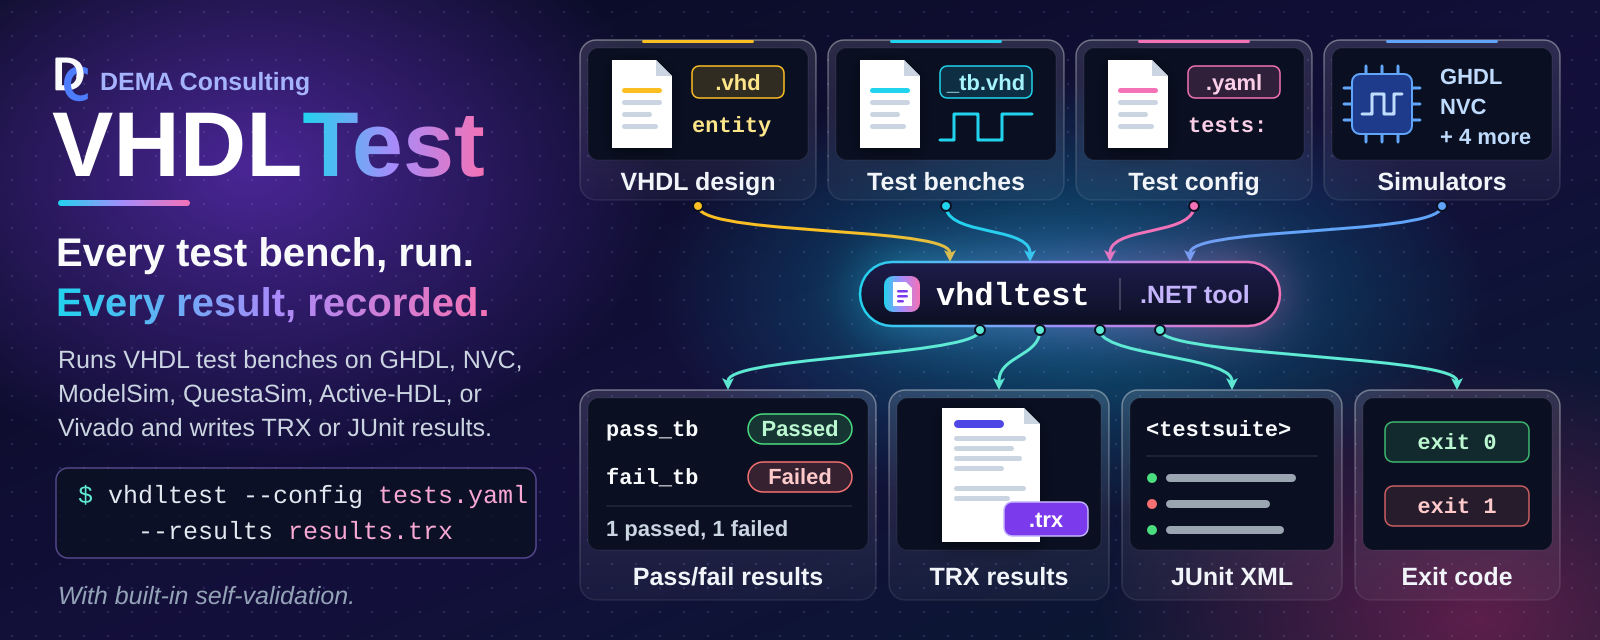
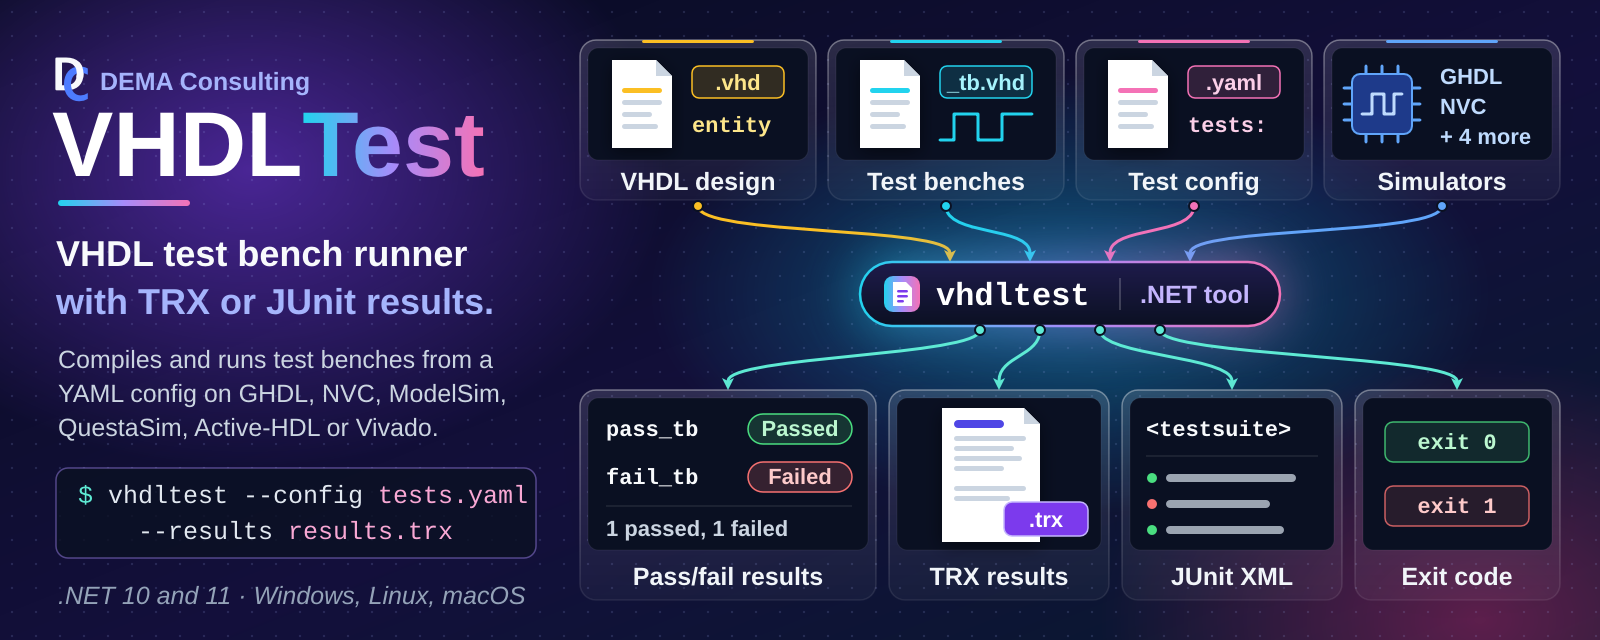
Sync agents/template and calm the README hero (#186)
* Sync agents, skills, and standards from the shared Agents repo

Brings in the orchestrator Pull Requests section and planning Feasibility and
Delivery step (#62) and the SysML2 one-package-per-file rules (#64). AGENTS.md
gains the Project Scripts section, drops fix.ps1/lint.ps1 from the protected
list, and records the legacy SysML2 package layout as a repository exception.

* Sync template: yamlfix comment setting and script CUSTOMIZATION headers

Applies template #61 (comments_require_starting_space = false, so yamlfix no
longer rewrites '#' inside block text) and #63 (CUSTOMIZATION headers replace
the older MODIFICATION POLICY text). Comment-only script changes; every
repo-specific step is unchanged. fix.ps1 makes no YAML changes.

* Calm the README hero and make it the H1

Plain tagline (VHDL test bench runner / with TRX or JUnit results.) in solid
colors, factual body and footnote; the hero is now the README H1 with the
badges under it, replacing the separate title. Right side unchanged.

---------

Changed region(s): [[0.0312, 0.5312, 0.3125, 0.6875], [0.0312, 0.375, 0.3125, 0.5], [0.0312, 0.9062, 0.3438, 0.9688]]

diff --git a/.github/standards/sysml2-modeling.md b/.github/standards/sysml2-modeling.md
@@ -31,15 +31,15 @@ docs/sysml2/
 ├── common/
 │   └── software-items.sysml           # shared SoftwareItemMetadata::SoftwareInfo metadata def
 ├── model/
-│   ├── {system-name}.sysml            # system-level part def only (no subsystems/units inline)
+│   ├── {system-name}.sysml            # package {SystemName}; system-level part def only (no subsystems/units inline)
 │   ├── {system-name}/
-│   │   ├── {subsystem-name}.sysml     # subsystem part def; nests further for sub-subsystems
+│   │   ├── {subsystem-name}.sysml     # package {SystemName}_{SubsystemName}Subsystem; nests further for sub-subsystems
 │   │   └── {subsystem-name}/
-│   │       └── {unit-name}.sysml      # one file per unit
-│   ├── ots.sysml                      # OTS dependency parts (optional; if OTS items exist)
-│   └── shared.sysml                   # Shared Package parts (optional; if Shared Packages exist)
+│   │       └── {unit-name}.sysml      # package {SystemName}_{UnitName}; one file per unit
+│   ├── ots.sysml                      # package OtsDependencies: OTS parts (optional; if OTS items exist)
+│   └── shared.sysml                   # package SharedPackages: Shared Package parts (optional; if Shared Packages exist)
 └── views/
-    └── design-views.sysml             # named view usages rendered for the design document
+    └── design-views.sysml             # package {RepoName}DesignViews; named view usages rendered for the design document
 ```
 
 `docs/sysml2/common/software-items.sysml` defines the `SoftwareItemMetadata::SoftwareInfo`
@@ -62,14 +62,42 @@ so no single alias name would generalize. Agents discover the system(s) present 
 `docs/sysml2/**/*.sysml`, not by assuming a fixed name.
 
 Always pass the full set of `.sysml` files (or an equivalent glob) to every `sysml2tools`
-invocation — the model spans multiple files and cross-references between them; files sharing
-the same `package Name { ... }` merge into one namespace automatically with no `import`
-required, as long as all files are passed together. As of `sysml2tools` 0.1.0-beta.5,
+invocation — the model spans multiple files and cross-references between them, and a
+reference only resolves when the file declaring its target is loaded (see Package Structure
+below for how files reference each other). As of `sysml2tools` 0.1.0-beta.5,
 `lint` and `render` both expand `*`/`**` glob patterns internally (recursing correctly into
 subdirectories), so pass a single **quoted** glob string (e.g. `'docs/sysml2/**/*.sysml'`)
 and let the tool resolve it — do not rely on the shell to expand it, and do not quote-strip
 the pattern before it reaches the tool. Quoting keeps the behavior identical across
 PowerShell and bash, since neither shell needs to (or reliably does) expand `**` itself.
+
+## Package Structure
+
+SysML v2 has no package merging: each file is its own root namespace, and two root packages
+with the same name are duplicate members of the global namespace (the OMG Pilot
+Implementation reports "Duplicate of other owned member name" for each, and references across
+the halves do not resolve). A model that only loads because a tool is lenient is not portable,
+so:
+
+- Each `.sysml` file declares **exactly one uniquely named package**, and a package is never
+  declared (or "reopened") in more than one file.
+- Name each package from its place in the hierarchy, joined with an underscore:
+  `{SystemName}` for the system file, `{SystemName}_{SubsystemName}Subsystem` for a subsystem
+  (including a nested sub-subsystem, which is not prefixed with its parent subsystem), and
+  `{SystemName}_{UnitName}` for a unit. The system prefix keeps names unique across systems.
+  The shared files use `OtsDependencies` and `SharedPackages`, and the single views file uses
+  one repository-level package, `{RepoName}DesignViews` (not one per system).
+- Package names must be unique **repository-wide**. The short forms above are the default;
+  when one would collide (two `Storage` subsystems in different branches, or two units named
+  `Cache` in different subsystems), qualify it with the owning subsystem path, for example
+  `{SystemName}_{SubsystemName}_{UnitName}` (`Acme_Ingest_Cache` and `Acme_Query_Cache`).
+- Reference other files with an explicit `private import {PackageName}::*;` (a system or
+  subsystem file imports the package of each direct member so its `part` usages resolve; every
+  file that applies `SoftwareInfo` imports `SoftwareItemMetadata::*`).
+- Where an import would form a cycle (for example a unit that depends on a package that
+  already imports it), or for a one-off reference into another system, use the qualified name
+  instead, e.g. `dependency {UnitName} to {SystemName}_{OtherUnit}::{OtherUnit};`.
+  Import cycles raise a lint warning; qualified references do not.
 
 ## Model Content
 
@@ -174,11 +202,13 @@ Views control what gets rendered into diagrams for the design document. Use name
 **usages** (not `view def` **definitions**) — `expose` is only valid inside a usage:
 
 ```sysml
-package {SystemName} {
+package {RepoName}DesignViews {
     private import StandardViewDefinitions::*;
+    private import {SystemName}::*;
+    private import {SystemName}_{SubsystemName}Subsystem::*;
 
     view SoftwareStructureView : InterconnectionView {
-        expose {SystemName}::**;     // all members, recursively: system + subsystems + units
+        expose {SystemName}::{SystemName}System::**;  // system part def, recursively: subsystems + units
     }
 
     view {SystemName}View {
@@ -186,10 +216,12 @@ package {SystemName} {
     }
 
     view {SubsystemName}View {
-        expose {SubsystemName};      // one subsystem def only
+        expose {SubsystemName}Subsystem;      // one subsystem def only
     }
 }
 ```
+
+Views import (or qualify) every package whose members they expose, like any other file.
 
 Type `SoftwareStructureView` by a standard view definition from the SysML v2 Views library
 (`GeneralView`, `InterconnectionView`, ...; requires `sysml2tools` 0.3.0-beta.3+). The view
@@ -223,25 +255,27 @@ There is no dedicated `DependencyView`/`{SubsystemName}DependencyView` diagram c
 above), not rendered.
 
 When a repository has multiple systems, type `SoftwareStructureView` by `GeneralView`,
-expose each system package's members, and filter out documentation so the overview stays
-readable — the general view draws one package frame per system, while an interconnection
-view places all systems in a single row:
+expose each system's part def (and each subsystem's, by qualified name), and filter out
+documentation so the overview stays readable — the general view draws one package frame per
+system, while an interconnection view places all systems in a single row:
 
 ```sysml
 package {RepoName}DesignViews {
     private import StandardViewDefinitions::*;
 
     view SoftwareStructureView : GeneralView {
-        expose {SystemNameA}::**;
-        expose {SystemNameB}::**;
-        filter not @SysML::Documentation;
+        expose {SystemNameA}::{SystemNameA}System;
+        expose {SystemNameA}_{SubsystemName}Subsystem::{SubsystemName}Subsystem;
+        expose {SystemNameB}::{SystemNameB}System;
+        filter not (@SysML::Documentation);
     }
 }
 ```
 
 Documentation (`doc`) is exposed with its owner and drawn as a `doc` compartment unless a
-view filters it out; use `filter not @SysML::Documentation;` wherever doc text would clutter
-a diagram.
+view filters it out; use `filter not (@SysML::Documentation);` wherever doc text would clutter
+a diagram. The parentheses are required: the SysML v2 grammar does not accept the unparenthesized
+`filter not @SysML::Documentation;`.
 
 ## Diagram Embedding
 
@@ -313,6 +347,9 @@ sync.
   `sourceFiles`; the purpose statement appears only in the `doc` comment, never in `SoftwareInfo`
 - [ ] `docs/sysml2/views/design-views.sysml` uses `view Name { expose ...; }` usages, not
   `view def` definitions
+- [ ] Each `.sysml` file declares exactly one uniquely named package (never the same package
+  in two files), named per Package Structure, and references other files through
+  `private import` or qualified names (qualified where an import would form a cycle)
 - [ ] View names follow the `SoftwareStructureView` / `{SystemName}View` /
   `{SubsystemName}View` convention (no dedicated `DependencyView`)
 - [ ] Each Unit's real collaborators are captured as `dependency A to B;` statements, and each

diff --git a/.github/skills/sysml2tools-query/SKILL.md b/.github/skills/sysml2tools-query/SKILL.md
@@ -21,11 +21,15 @@ dotnet tool restore
 ## Model files
 
 - `docs/sysml2/model/{system-name}.sysml` — system-level `part def` only (no subsystems/units
-  inline). A repository may contain more than one system.
+  inline), in package `{SystemName}`. A repository may contain more than one system.
 - `docs/sysml2/model/{system-name}/{subsystem-name}.sysml` and
   `docs/sysml2/model/{system-name}/{subsystem-name}/{unit-name}.sysml` — one file per
   Subsystem/Unit, nested to mirror the same folder depth as that item's companion
-  `docs/design/`, `docs/reqstream/`, and `docs/verification/` files.
+  `docs/design/`, `docs/reqstream/`, and `docs/verification/` files. Each declares its own
+  uniquely named package; by default `{SystemName}_{SubsystemName}Subsystem` or
+  `{SystemName}_{UnitName}`, qualified with the subsystem path
+  (`{SystemName}_{SubsystemName}_{UnitName}`) when the short name would collide. An element's
+  qualified name is e.g. `{SystemName}_{UnitName}::{UnitName}`.
 - `docs/sysml2/model/ots.sysml` — off-the-shelf (OTS) dependency parts (present when OTS items
   exist).
 - `docs/sysml2/model/shared.sysml` — Shared Package parts (present when Shared Package items
@@ -35,9 +39,10 @@ dotnet tool restore
   useful to see how diagrams are scoped.
 
 Always pass all `.sysml` files (or a glob covering them) to every `sysml2tools`
-invocation — the model spans multiple files and cross-references between them; files that
-reopen the same `package Name { ... }` from different files merge into one namespace
-automatically, no `import` required. As of `sysml2tools` 0.1.0-beta.5, every subcommand
+invocation — the model spans multiple files and cross-references between them (each file
+declares one uniquely named package and references others through `import` or qualified
+names; same-named packages in different files are not merged), so every file a reference
+points at must be loaded. As of `sysml2tools` 0.1.0-beta.5, every subcommand
 (`lint`, `render`, `query`) expands `*`/`**` glob patterns internally and recurses
 correctly — pass a single **quoted** glob string and let the tool resolve it, rather than
 relying on the shell (quoting works identically in both PowerShell and bash):
@@ -57,7 +62,7 @@ summary line, so one query gets you every artifact location for that item withou
 the source tree:
 
 ```pwsh
-dotnet sysml2tools query describe -e {SystemName}::{UnitName} 'docs/sysml2/**/*.sysml'
+dotnet sysml2tools query describe -e {SystemName}_{UnitName}::{UnitName} 'docs/sysml2/**/*.sysml'
 ```
 
 ```text

diff --git a/AGENTS.md b/AGENTS.md
@@ -160,10 +160,30 @@ requires it and the modification preserves the documented design intent:
 
 - `.reviewmark.yaml`, `.textlint.yaml`, `.editorconfig`
 - `.lintmark.yaml`, `.yamllint.yaml`
-- `requirements.yaml`, `fix.ps1`, `lint.ps1`
+- `requirements.yaml`
+
+# Project Scripts
+
+`build.ps1`, `lint.ps1`, and `fix.ps1` belong to the project: extend them as it grows. Add project-specific
+steps, update tool versions, and add optional parameters that focus a run (for example one library in a
+multi-library repository, or headless tests without GUI automation). Two rules keep them trustworthy:
+
+- Run with no arguments, each script still does its full job (CI and the agents rely on that); slow or
+  environment-dependent test tiers may be opt-in switches of `build.ps1`.
+- Never remove or weaken a check to make lint or tests pass.
 
 # Continuous Compliance Overview
 
 This repository follows the [Continuous Compliance](https://github.com/demaconsulting/ContinuousCompliance)
 approach. Tools: **ReqStream** (requirements traceability), **ReviewMark** (file review enforcement),
 **BuildMark** (tool versions), **VersionMark** (version tracking).
+
+# Repository-Specific Standards Exceptions
+
+## SysML2 package structure (legacy layout, migration pending)
+
+The model under `docs/sysml2/` predates the `sysml2-modeling.md` Package Structure rules: the `VHDLTest`
+package is reopened across 32 files (31 model files plus `views/design-views.sysml`, which uses `VHDLTest`
+rather than `VHDLTestDesignViews`). Those rules and the `sysml2tools-query` qualified-name examples apply once
+the model is migrated in a dedicated PR. Until then, agents use the existing package names (`VHDLTest`,
+`OtsDependencies`, `SoftwareItemMetadata`) and must not partially restructure the model.

diff --git a/.github/agents/orchestrator.agent.md b/.github/agents/orchestrator.agent.md
@@ -48,3 +48,16 @@ briefly, what you loaded.
   let the user answer in their own words. Do not batch decisions into structured question forms (such as an
   `ask_user` tool); they strip away the context the user needs to decide and turn the session into a
   questionnaire.
+
+# Pull Requests (MANDATORY)
+
+Aim for pull requests that each merge one complete, useful change that could be cherry-picked on its own.
+
+- Before starting work that could span more than one pull request, propose the grouping and let the user
+  decide. The user may split it, or combine several small requests into one pull request.
+- When splitting, split by behavior, not by layer or file type: each part carries its own code, tests,
+  requirements, and docs, builds and passes alone, and leaves no stubs or dead code for a later part.
+- Deliver parts in order: start the next part from main only after the previous one merges.
+- Review fixes, lint fixes, and follow-ups go into the open pull request they belong to, not a new one.
+- Sub-agents work on the agreed branch and do not open pull requests; you decide when it is complete.
+- Keep mechanical churn (formatting, renames, generated files) in its own commit so reviewers can skip it.

diff --git a/README.md b/README.md
@@ -1,7 +1,4 @@
-# VHDLTest
-
-<!-- IMPORTANT: All links in this file must be absolute URLs.
-     This file is distributed in packages and relative links will not resolve. -->
+# ![VHDLTest: VHDL test bench runner with TRX or JUnit results][hero]
 
 [![CI][github-build-badge]](https://github.com/demaconsulting/VHDLTest/actions/workflows/build_on_push.yaml)
 [![Quality Gate Status][sonarcloud-quality-badge]][sonarcloud-quality-url]
@@ -12,11 +9,8 @@
 ![GitHub contributors][github-contributors-badge]
 ![GitHub][github-license-badge]
 
-![VHDLTest banner: the VHDLTest name with the tagline 'Every test bench, run. Every result, recorded.' and the
-command 'vhdltest --config tests.yaml --results results.trx'. VHDL design files, test benches, the YAML test
-configuration, and an installed simulator (GHDL, NVC, and four more) flow on curved arrows into the vhdltest .NET
-tool, and arrows lead out to the pass/fail result of each test bench, a TRX test results file, a JUnit XML test
-results file, and a pass/fail exit code (exit 0 or exit 1)][hero]
+<!-- IMPORTANT: All links in this file must be absolute URLs.
+     This file is distributed in packages and relative links will not resolve. -->
 
 ## Overview
 

diff --git a/.github/agents/planning.agent.md b/.github/agents/planning.agent.md
@@ -52,10 +52,13 @@ Repeat up to 2 more times, stopping when the plan is stable.
 
 List up to 5 risks with a brief mitigation for each.
 
-## Step 6 — Feasibility Assessment
+## Step 6 — Feasibility and Delivery
 
 State whether this can be implemented in a single development pass and any
-preconditions that affect feasibility.
+preconditions that affect feasibility. Propose how the work groups into pull
+requests: one complete, useful change per pull request where possible; if it
+should be split, list ordered parts that are split by behavior (not by layer or
+file type) and each build, pass, and deliver something on their own.
 
 ## Step 7 — Recommendation
 
@@ -108,9 +111,12 @@ Then respond to the caller with ONLY the lean structured summary below.
 
 1. **[severity]** {risk} — {mitigation}
 
-## Feasibility Assessment
+## Feasibility and Delivery
 
 {Single-pass or not, and why. Any preconditions.}
+
+{Proposed pull-request grouping: one pull request, or ordered parts split by behavior,
+each with what it delivers on its own.}
 
 ## Unknowns
 
